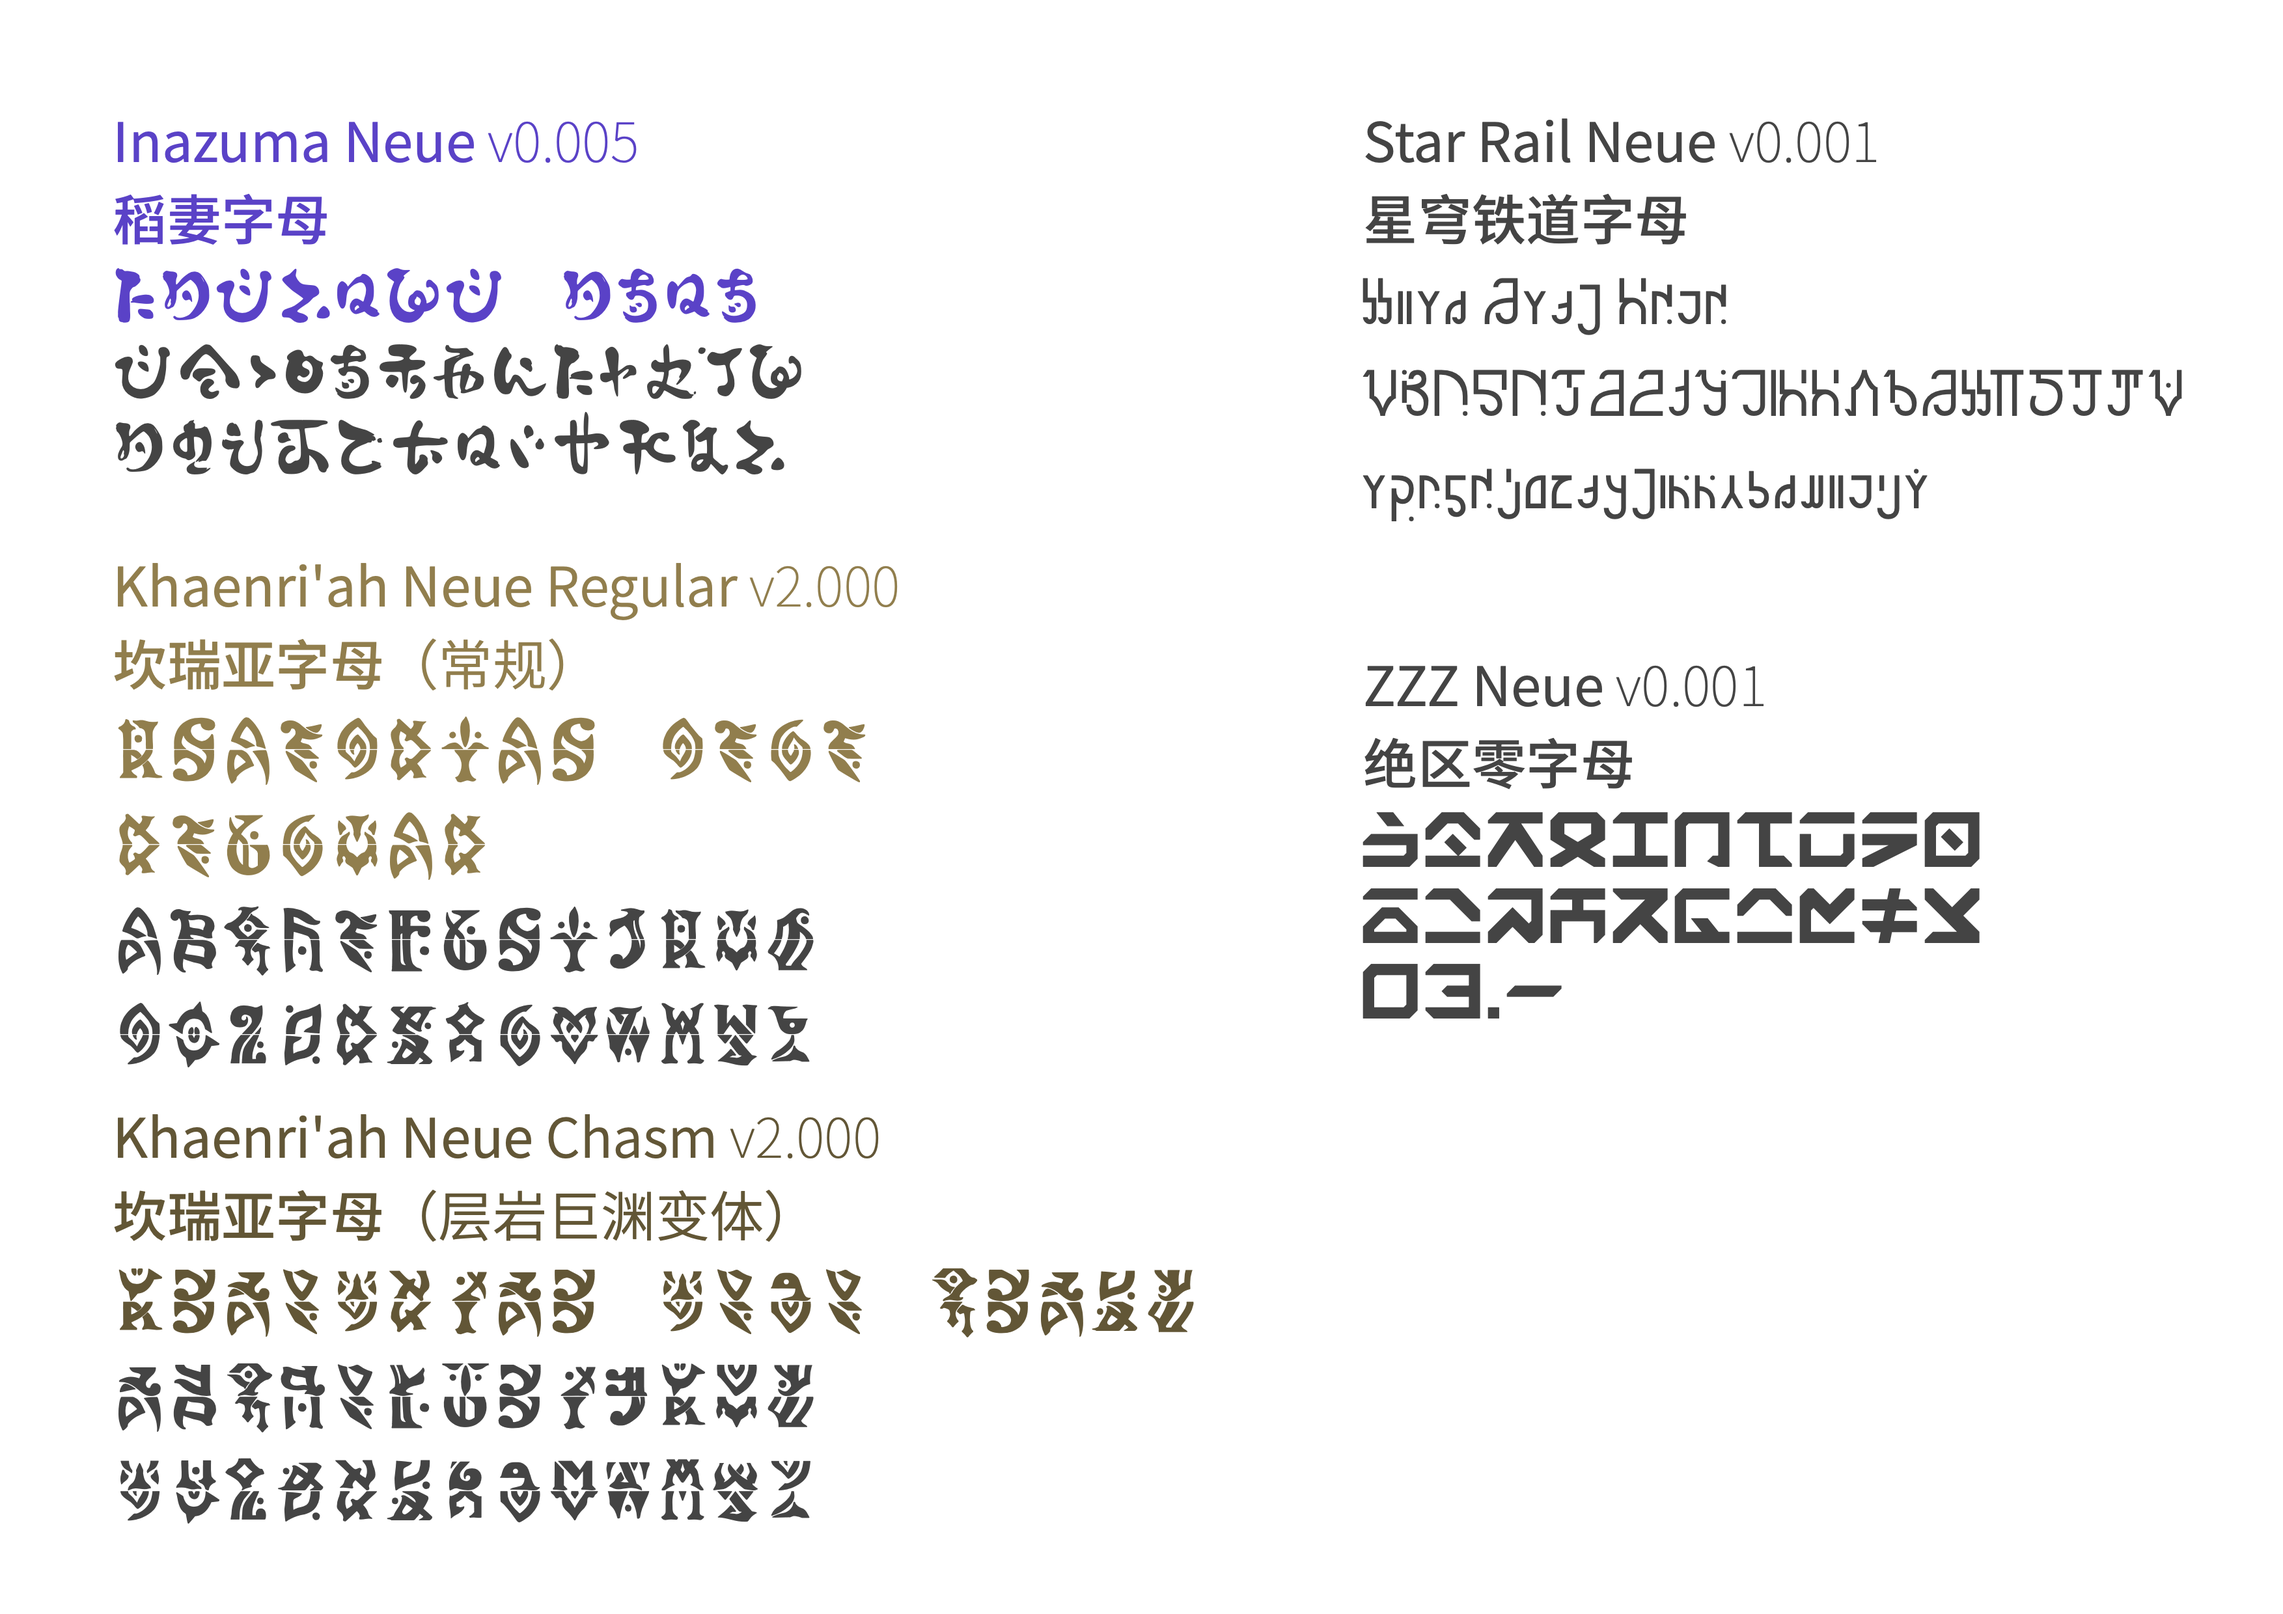
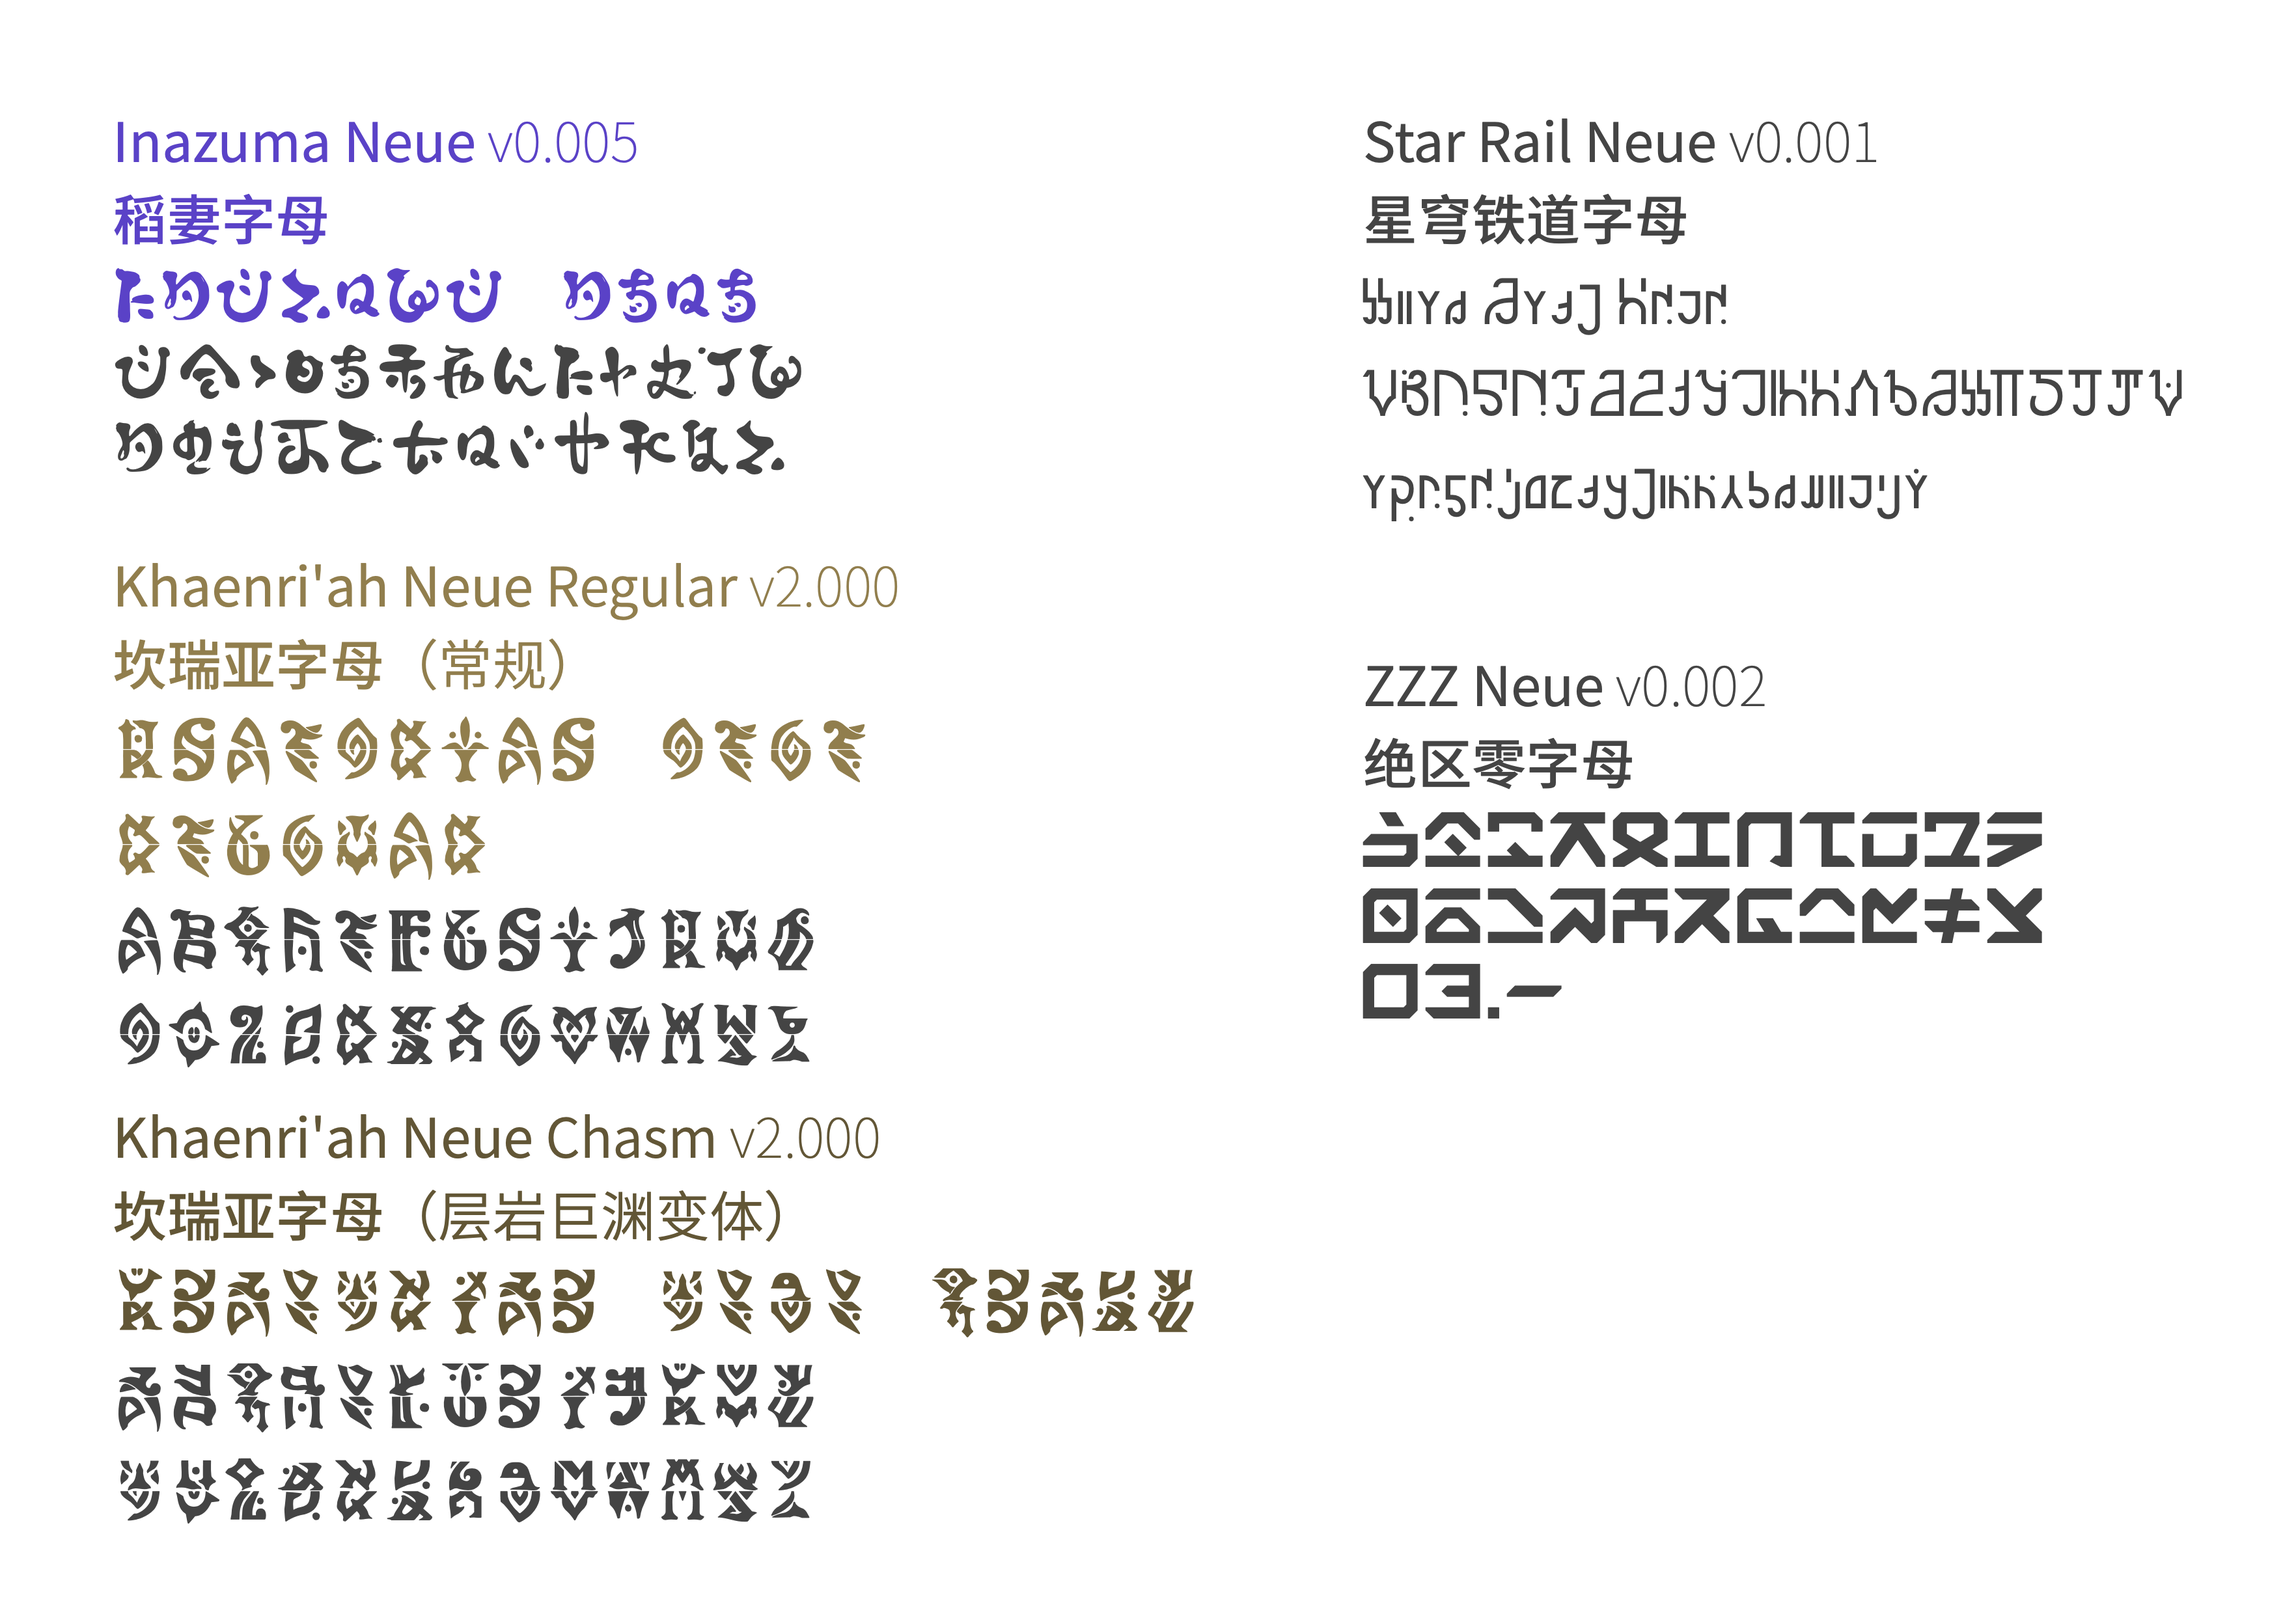
ZZZ Neue Update

Changed region(s): [[0.5905, 0.4968, 0.9013, 0.5899]]

diff --git a/README_en.md b/README_en.md
@@ -10,7 +10,7 @@ This repository contains the fonts of the constructed writing systems
 in the video games developed by Hoyoverse. These fonts are
 **not obtained from any forms of reverse engineering to the games**. 
 
-If you want to have a glance at them just for fun, check [this link](https://speedyorc-c.github.io/Genshin-Glyphs/demo/index.html).
+If you want to have a glance at them just for fun, check [this link](https://speedyorc-c.github.io/Hoyo-Glyphs/demo/index.html).
 
 ## How to Use?
 
@@ -55,7 +55,7 @@ A tick means the font of this writing system is ready to use from this repositor
 
 ## Have Rendering Issues?
 
-If you have issues with rendering, please report on [the Issue page](https://github.com/SpeedyOrc-C/Genshin-Glyphs/issues).
+If you have issues with rendering, please report on [the Issue page](https://github.com/SpeedyOrc-C/Hoyo-Glyphs/issues).
 
 ## Update Log & Known Issues
 
@@ -67,6 +67,14 @@ Currently, the game has finished its 1<sup>st</sup> public test,
 the 2<sup>nd</sup> public test is in progress. 
 
 ### ZZZ Neue
+
+#### v0.002
+
+Added the letter `C` and `K`.
+
+After 13<sup>th</sup> May 2022, a variant of this font is discovered where
+some glyphs of which do not have a cut edge at the top-left corner of their
+horizontal strokes.
 
 #### v0.001
 

diff --git a/README.md b/README.md
@@ -8,7 +8,7 @@
 
 这个仓库储存了米哈游的游戏里的架空文字的字体。这些字体**并非游戏解包文件**，敬请放心使用。
 
-如果只是想随便玩一玩这些字体，可以到[这里](https://speedyorc-c.github.io/Genshin-Glyphs/demo/index.html)看看。
+如果只是想随便玩一玩这些字体，可以到[这里](https://speedyorc-c.github.io/Hoyo-Glyphs/demo/index.html)看看。
 
 ## 如何使用？
 
@@ -57,7 +57,7 @@
 
 ## 渲染出错？
 
-如果这里的字体在您的软件中出现太大、太小或渲染出错的情况，请在[这里](https://github.com/SpeedyOrc-C/Genshin-Glyphs/issues)提出 Issue，谢谢。
+如果这里的字体在您的软件中出现太大、太小或渲染出错的情况，请在[这里](https://github.com/SpeedyOrc-C/Hoyo-Glyphs/issues)提出 Issue，谢谢。
 
 ## 更新记录与已知问题
 
@@ -68,6 +68,12 @@
 目前，该游戏已经完成第一次测试，第二次测试正在进行中。
 
 ### 绝区零文字 ZZZ Neue
+
+#### v0.002
+
+添加了字母 `C` 和 `K` 的字形。
+
+在 2022 年 5 月 13 日之后，发现这种字母包含一种变体，其中部分字形横画没有左上角的切角。
 
 #### v0.001
 
